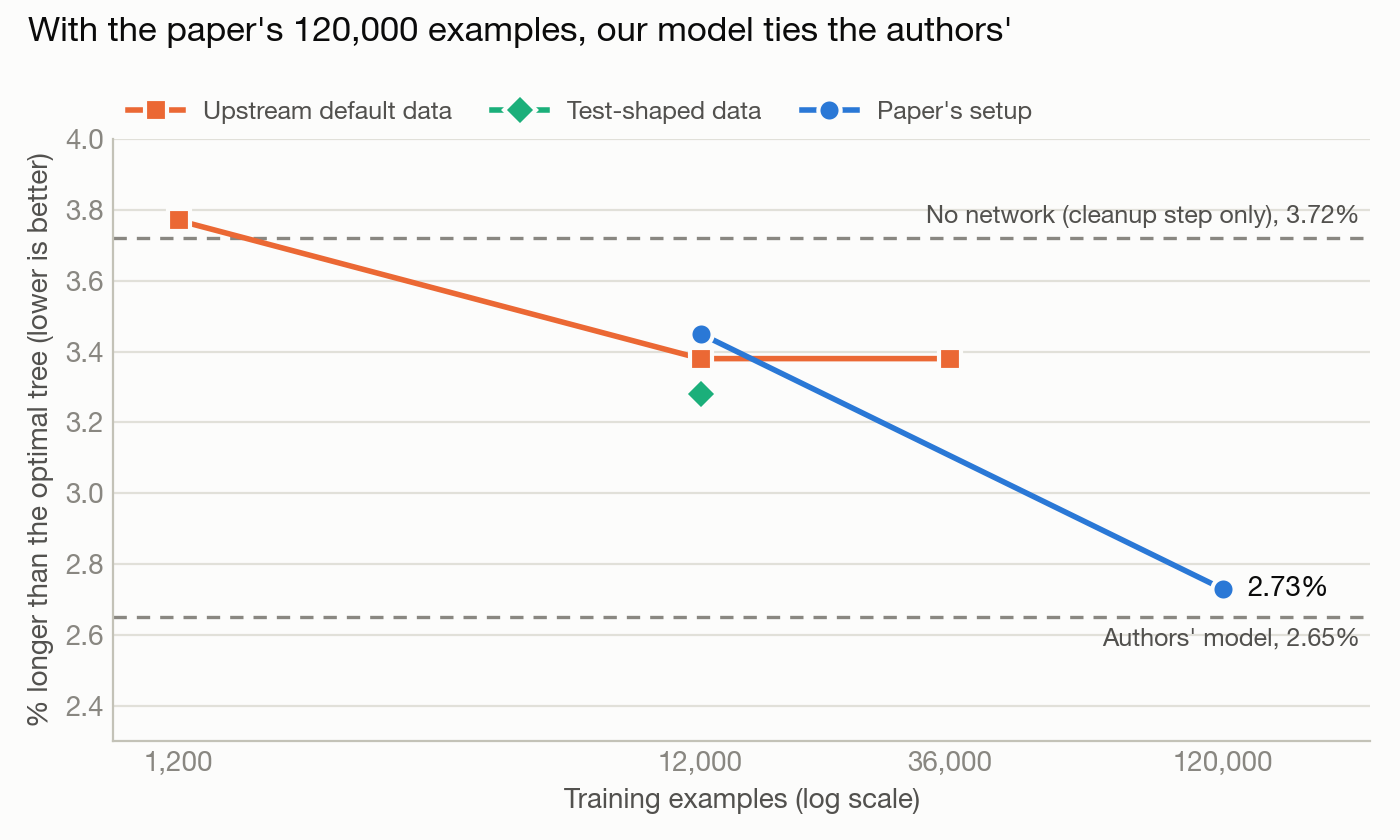
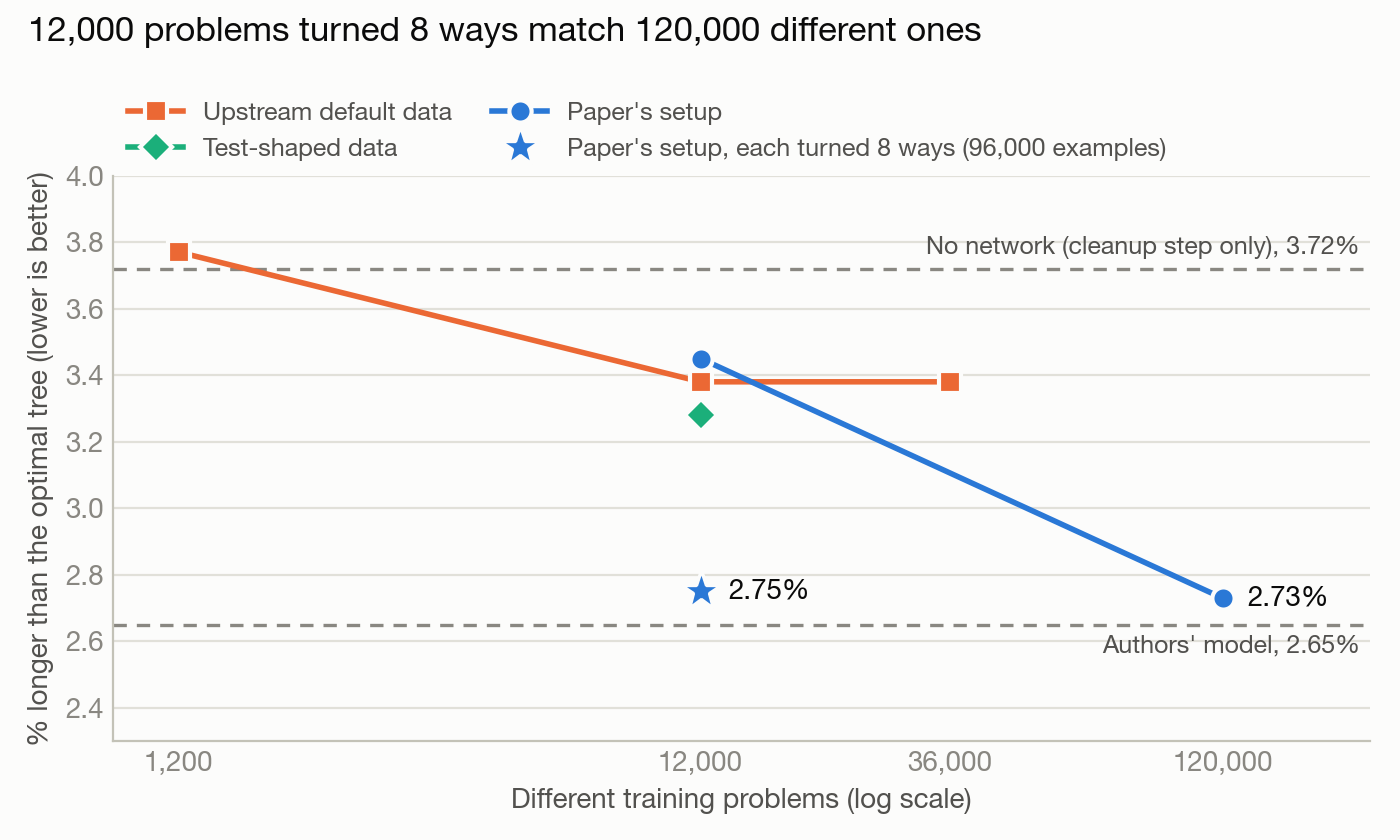
docs: training on turned copies scores 2.75%, a tie with 120k (+0.02 +- 0.10), but the orientation spread barely moves (1.86 vs 1.95)

Changed region(s): [[0.0, 0.1238, 0.9829, 0.8976], [0.0307, 0.0, 0.7371, 0.0619], [0.3686, 0.9286, 0.7064, 0.9905]]

diff --git a/scripts/make_figures.py b/scripts/make_figures.py
@@ -26,6 +26,8 @@ RESULTS = os.path.join(REPO, "results")
 DEFAULT_DATA = [(1_200, 3.77), (12_000, 3.38), (36_000, 3.38)]
 TEST_SHAPED = [(12_000, 3.28)]
 PAPER_SETUP = [(12_000, 3.45), (120_000, 2.73)]
+# The same 12,000 paper-style problems, each in all 8 turns (96,000 examples)
+TURNED = [(12_000, 2.75)]
 AUTHORS = 2.65
 NO_NETWORK = 3.72
 
@@ -69,13 +71,16 @@ def scaling_plot(path: str) -> None:
         xs, ys = zip(*points)
         ax.plot(xs, ys, color=color, lw=2, marker=marker, ms=8, mec=SURFACE, mew=1.5, label=label, zorder=3)
 
+    # Turned copies add no new problems, so the point sits at 12,000 with no line
+    ax.plot(*zip(*TURNED), ls="none", color=BLUE, marker="*", ms=15, mec=SURFACE, mew=1.2, label="Paper's setup, each turned 8 ways (96,000 examples)", zorder=4)
     ax.annotate("2.73%", PAPER_SETUP[-1], xytext=(9, 0), textcoords="offset points", ha="left", va="center", color=INK, fontsize=10)
+    ax.annotate("2.75%", TURNED[-1], xytext=(10, 0), textcoords="offset points", ha="left", va="center", color=INK, fontsize=10)
     ax.set_xscale("log")
     ax.set_xticks([1_200, 12_000, 36_000, 120_000], ["1,200", "12,000", "36,000", "120,000"])
     ax.minorticks_off()
     ax.set_xlim(900, 230_000)
     ax.set_ylim(2.3, 4.0)
-    ax.set_xlabel("Training examples (log scale)")
+    ax.set_xlabel("Different training problems (log scale)")
     ax.set_ylabel("% longer than the optimal tree (lower is better)")
     ax.grid(axis="y", color=GRID, lw=0.8)
     ax.set_axisbelow(True)
@@ -84,8 +89,8 @@ def scaling_plot(path: str) -> None:
         ax.spines[side].set_visible(False)
     ax.tick_params(length=0)
 
-    ax.legend(loc="lower left", bbox_to_anchor=(0, 1.0), ncol=3, frameon=False, fontsize=9, labelcolor=INK_2, handlelength=2.2, columnspacing=1.6, borderaxespad=0.2)
-    fig.suptitle("With the paper's 120,000 examples, our model ties the authors'", x=0.02, ha="left", fontsize=12.5)
+    ax.legend(loc="lower left", bbox_to_anchor=(0, 1.0), ncol=2, frameon=False, fontsize=9, labelcolor=INK_2, handlelength=2.2, columnspacing=1.6, borderaxespad=0.2)
+    fig.suptitle("12,000 problems turned 8 ways match 120,000 different ones", x=0.02, ha="left", fontsize=12.5)
 
     fig.tight_layout()
     fig.savefig(path, dpi=200)

diff --git a/docs/Findings.md b/docs/Findings.md
@@ -9,7 +9,7 @@ The team's running record of the project: where things stand, what each of us ne
 - Background on the paper: [Project_Proposal.md](Project_Proposal.md)
 - Who owns what: [Team_Responsibilities.md](Team_Responsibilities.md)
 
-*Last updated: 2026-11-07*
+*Last updated: 2026-11-08*
 
 ---
 
@@ -34,6 +34,7 @@ The team's running record of the project: where things stand, what each of us ne
 - [How the paper trained its model](#how-the-paper-trained-its-model)
 - [The paper's full 120,000 examples (done)](#the-papers-full-120000-examples-done)
 - [Best of 8 and bigger problems (done)](#best-of-8-and-bigger-problems-done)
+- [Training on turned copies (done)](#training-on-turned-copies-done)
 - [What comes next](#what-comes-next)
 - [Our scripts, and what each one does](#our-scripts-and-what-each-one-does)
 - [How to reproduce our numbers](#how-to-reproduce-our-numbers)
@@ -49,7 +50,7 @@ The team's running record of the project: where things stand, what each of us ne
 |---|---|
 | Can everyone run the authors' code? | **Yes.** It takes one setup command on a Mac or on Colab. Their training needed 2+ NVIDIA GPUs; it now runs on 1 GPU, an Apple GPU, or CPU |
 | Is the authors' trained model as good as the paper says? | **Yes.** On the 100 uniform 100-point test problems it scores **2.648%** longer than optimal, vs their published **2.646%**. Getting there needed a fix (patch 0004) |
-| Can we train a model that good ourselves? | **Yes.** Trained on the paper's full 120,000 paper-style examples (one fixed tree shape, batch 500, 140 epochs), our model scores **2.73%** vs the authors' **2.65%**: +0.08 ± 0.09 points, and ours is shorter on 52 of the 100 problems. That's a tie. Earlier runs: 1,200 examples **3.77%**, 12,000 **3.38%**, 36,000 **3.38%**, 12,000 test-shaped **3.28%**, 12,000 paper-style trained much longer **3.45%** ([details](#the-papers-full-120000-examples-done)) |
+| Can we train a model that good ourselves? | **Yes.** Trained on the paper's full 120,000 paper-style examples (one fixed tree shape, batch 500, 140 epochs), our model scores **2.73%** vs the authors' **2.65%**: +0.08 ± 0.09 points, and ours is shorter on 52 of the 100 problems. That's a tie. Earlier runs: 1,200 examples **3.77%**, 12,000 **3.38%**, 36,000 **3.38%**, 12,000 test-shaped **3.28%**, 12,000 paper-style trained much longer **3.45%** ([details](#the-papers-full-120000-examples-done)). Later: the same 12,000 problems each turned 8 ways, **2.75%** ([details](#training-on-turned-copies-done)) |
 | Is more training data the fix? | **For paper-style data, yes.** 120,000 examples gave 2.73%: 0.55 ± 0.11 points better than our previous best (3.28%), and 0.72 ± 0.09 better than the same setup on 12,000 (3.45%). For corner-shaped data it wasn't: 12,000 → 36,000 changed nothing (each model wins 50 of 100 problems) |
 | Is the portal threshold the problem? | **No, but each model needs its own.** For our corner-shaped model the default 0.95 was already best, on both the 100- and 200-point sets. Models trained differently are sure of themselves in different ways: the test-shaped model's best is 0.8, the 120,000 model's 0.9, both picked on the 200-point set. The sweep also showed **where** the gap was: over a "no network" baseline (threshold 1.0, 3.77%), the corner-shaped network improved the score by only 0.39 points, the authors' by 1.07. The 120,000 model's network adds 0.99 ([details](#the-threshold-experiment-done)) |
 | Does the authors' network guess portals better than ours? | **Depends on the data's shape.** On our corner-shaped validation data, ours wins (F1 0.46 vs 0.29). On validation data shaped like the test problems, theirs wins clearly (0.37 vs 0.25). Our corner-shaped training examples put all points in one corner (quadtrees 9–11 levels deep); the test problems don't (2–4) ([details](#comparing-the-two-networks-directly-done)). Our 120,000 model now beats theirs on test-shaped data (0.42 vs 0.37), though the trees only tie ([details](#the-papers-full-120000-examples-done)) |
@@ -58,7 +59,9 @@ The team's running record of the project: where things stand, what each of us ne
 | Does training much longer help? | **Not on 12,000 examples.** A paper-style run (one tree shape, batch 500, no early stopping) memorized them: by epoch 600 training F1 was 0.98 and validation F1 had fallen from 0.24 to 0.18. Its trees got worse too: **3.45%** at epoch 50 (its best), 3.68% at epoch 600 (+0.22 ± 0.11). Even the best is behind the test-shaped 3.28% ([details](#scoring-the-long-run-longer-training-on-12000-examples-doesnt-help-2026-10-19)). **On 120,000 examples it does:** the network no longer memorizes (training F1 only 0.76 after 140 epochs), and the trees improve from 3.62% at epoch 5 to 2.74% at epoch 40, then hold steady ([details](#the-papers-full-120000-examples-done)) |
 | Does NN-Steiner beat FLUTE on bigger problems? | **Yes, from 500 points on, as the paper says.** At 500 / 800 / 1,000 points, plain FLUTE (the paper's baseline) is 3.86% / 4.64% / 5.02% longer than optimal. One try of our model scores **3.03% / 3.39% / 3.49%** and the authors' 3.15% / 3.47% / 3.51% (their paper: 3.16% at 500, 3.52% at 1,000). FLUTE still wins at 100 and 200 points. Our model is slightly ahead of the authors' from 200 to 800 points and ties at 1,000 ([details](#best-of-8-and-bigger-problems-done)) |
 | Can we get better trees without retraining? | **Yes: solve each problem in its 8 orientations and keep the shortest ("best of 8").** On the 100-point exam, ours goes from 2.73% to **1.76%** and the authors' from 2.65% to **1.87%**. It helps at every size (ours: −0.97 points at 100, −0.38 at 1,000) and costs 8× the solve time. With it, NN-Steiner ties plain FLUTE at 200 points (2.30% vs 2.30%) ([details](#best-of-8-and-bigger-problems-done)) |
-| What's running right now? | Nothing. Best of 8 is finished and scored |
+| Can turned copies of a problem replace new problems? | **Yes, for the score.** Training on 12,000 paper-style problems, each in all 8 turns (96,000 examples, patch 0008), scores **2.75%**: a tie with the 120,000 run (+0.02 ± 0.10), and 0.70 ± 0.10 better than the same 12,000 problems unturned (3.45%). The turned copies stop the memorizing just as new problems do. Averaged over the 8 orientations, the 120,000 model keeps a small edge (3.03% vs 3.11% on the 200-point set, +0.08 ± 0.03) ([details](#training-on-turned-copies-done)) |
+| Does training on turned copies make the network care less about orientation? | **No, not measurably.** The spread across a problem's 8 orientations is 1.86 vs 1.95 for the 120,000 model at 100 points (−0.09 ± 0.07), 1.44 vs 1.52 at 200. No model has a favourite direction; the spread comes from imperfect door guesses, which land differently in each orientation ([details](#training-on-turned-copies-done)) |
+| What's running right now? | Nothing. Training on turned copies is finished and scored |
 | What's next? | Other point patterns and 2,000–5,000 points (against FLUTE, since there's no optimal there), then the report, and `portal_weight` if there's time. Details in [What comes next](#what-comes-next) |
 
 "% longer than optimal" is the real score: how much more wire our tree uses than the perfect tree from GeoSteiner. Lower is better. 3.38% means: where the perfect tree needs 100 m of wire, ours uses 103.38 m.
@@ -121,6 +124,8 @@ The team's running record of the project: where things stand, what each of us ne
 
 **Nov 7: the orientation effect is mostly the network.** `scripts/orientation_check.py` built every turned copy's tree without the network. With perfect doors the spread across orientations is about a quarter of the networks' (0.49 vs 1.95 at 100 points), so training on turned copies (idea 02) targets the right thing. Also: a perfect network would score 0.82%, beating FLUTE even at 100 points.
 
+**Nov 7–8: training on turned copies.** Patch 0008 adds `data_gen.turns`, so `data_gen` saves every training problem in all 8 turns, each labelled by GeoSteiner. Made 96,000 examples from the 12,000 paper-style problems (24 min, 7.7 GB) and checked them with `scripts/check_turned_data.py`. Trained 60 epochs at batch 500 (7 h 24 min). The checkpoint picked on the 200-point set (epoch 60, threshold 0.9) scores **2.75%**, a tie with the 120,000 run's 2.73%. Best of 8 on it: the spread across orientations barely moved (1.86 vs 1.95).
+
 **Nov 3–5: best of 8 and bigger problems.** Wrote `scripts/best_of_8.py`: it solves each test problem in its 8 orientations (4 rotations, each mirrored or not) and keeps the shortest tree. A GeoSteiner check proved the turning is right (all 1,600 turned copies of the 100- and 200-point sets keep exactly their optimal length). Scored both models at 100, 200, 500, 800 and 1,000 points. Best of 8 helps both at every size (ours: 2.73% → 1.76% on the exam), and from 500 points on NN-Steiner beats FLUTE, as the paper says.
 
 **Oct 19–20: the paper's full 120,000 examples.** Made 120,000 paper-style examples (9.6 GB) and trained them for 140 epochs at batch 500. It ran in three parts: I paused it twice (at epochs 42 and 123) and restarted from the last numbered checkpoint with `train.checkpoint`. About 22.5 h in all. Validation F1 rose to 0.43 with no memorizing. Scored 6 checkpoints with `scripts/score_checkpoint.sh`. The one picked on the 200-point set (epoch 140, threshold 0.9) scores **2.73%**, a tie with the authors' 2.65% (+0.08 ± 0.09). The number of examples was the gap.
@@ -144,8 +149,10 @@ All scores are on the same exam: the authors' 100 test problems (100 uniformly r
 | **Test-shaped training** (threshold 0.8, picked on the 200-point set) | 12,000 | – | **3.28%** (3.62% at 0.95) |
 | **Paper-style training, much longer** (one tree shape, batch 500; best checkpoint, epoch 50, threshold 0.8) | 12,000 | – | **3.45%** (3.68% after 600 epochs) |
 | **Paper-style training, the paper's full 120,000 examples** (140 epochs, batch 500; epoch 140 and threshold 0.9, both picked on the 200-point set) | 120,000 | – | **2.73%** (2.74% already at epoch 40) |
+| **Paper-style training on turned copies** (the same 12,000 problems, each in all 8 turns; 60 epochs, batch 500; epoch 60 and threshold 0.9, both picked on the 200-point set) | 96,000 (12,000 × 8) | – | **2.75%** |
 | **Best of 8**, authors' model (threshold 0.95) | 120,000 | – | **1.87%** |
 | **Best of 8**, our 120,000 model (threshold 0.9) | 120,000 | – | **1.76%** |
+| **Best of 8**, our turned-copies model (threshold 0.9) | 96,000 (12,000 × 8) | – | **1.90%** |
 | No network (threshold 1.0), authors' model | – | – | 3.72% |
 | No network (threshold 1.0), our 36,000 model | – | – | 3.77% |
 | No network (threshold 1.0), our test-shaped model | – | – | 3.78% |
@@ -205,10 +212,11 @@ FLUTE beating NN-Steiner here is expected. The paper's claim is that NN-Steiner 
 
 12. **On bigger problems the paper's claim holds, and our model holds up.** The authors' model scored by us matches their paper at 200, 500 and 1,000 points too (3.06 / 3.15 / 3.51% vs 3.06 / 3.16 / 3.52%). From 500 points on, both models beat FLUTE on almost every problem, by more as problems grow (ours, one try, vs plain FLUTE: −0.83 points at 500, −1.53 at 1,000). Our model is slightly ahead of the authors' from 200 to 800 points (averaged over the 8 orientations: −0.09 ± 0.03, −0.14 ± 0.02, −0.08 ± 0.02 points) and ties at 1,000 (−0.03 ± 0.02). At 100 and 200 points FLUTE still wins, though best of 8 ties plain FLUTE at 200.
 
-13. **What these results don't cover yet:**
+13. **Turned copies of a problem work as well as new problems, but don't teach orientation-blindness.** Training on the 12,000 paper-style problems, each in all 8 turns, scores **2.75%**: a tie with 120,000 different problems (2.73%, +0.02 ± 0.10) and 0.70 ± 0.10 better than the 12,000 unturned (3.45%, shorter on 78 of 100). Validation F1 at the same number of steps is close to the 120,000 run's (0.380 vs 0.387), and the network didn't memorize. So the 12,000 run's problem was memorizing, and 8 turns fix that as well as 10× more problems. Averaged over the 8 orientations, though, the 120,000 model is a little ahead (2.68 vs 2.74% at 100 points, 3.03 vs 3.11% at 200, +0.08 ± 0.03), so genuinely new problems still add a bit. The orientation spread didn't measurably shrink (1.86 vs 1.95 at 100 points, −0.09 ± 0.07). Neither model ever had a favourite direction (each turn's average is within 0.22 of the others), so there was no bias to train away: the spread comes from imperfect door guesses, which land differently in each orientation. Only a better network shrinks it ([details](#training-on-turned-copies-done)).
+
+14. **What these results don't cover yet:**
    - 2,000–5,000 points. There's no optimal answer there, so the comparison is against FLUTE directly.
    - Other point patterns (normal, mix-normal, non-isotropic).
-   - Whether training on turned copies makes the network less orientation-sensitive. (The effect is mostly the network's: with perfect doors the orientation spread drops to about a quarter.)
    - Runtime. Ours isn't comparable to the paper's anyway: different hardware, and GeoSteiner without CPLEX.
    - Run-to-run luck. Every result is one training run with one seed (42).
 
@@ -452,7 +460,7 @@ Measured training speed on the Mac: about 49 s per epoch on 1,200 examples, 7.9 
 
 The authors' trainer loads the **entire training set into memory** before training. The 1,200 set is 189 MB, so the paper's 120,000 examples would be about **19 GB**. That fits on a 64 GB Mac but likely not on free Colab (about 12–13 GB of RAM). At the measured speeds, one epoch on 120,000 would take roughly **80 minutes** on my Mac.
 
-**Why it matters:** the full dataset size decides where training can happen. Update (Oct 9): the data-scaling study says 120,000 isn't worth it (36,000 scored no better than 12,000), so this limit no longer blocks us. A 12,000 set is 1.9 GB on disk. Update (Oct 19): paper-style examples are about half that size (12,000 = 984 MB), so 120,000 of them is about 10 GB, and at batch 500 an epoch of 120,000 takes about 8–9 min. That's Experiment 5. Update (Oct 20): it ran on my Mac with no memory problems: 9.6 GB on disk, about 22.5 h for 140 epochs ([details](#the-papers-full-120000-examples-done)).
+**Why it matters:** the full dataset size decides where training can happen. Update (Oct 9): the data-scaling study says 120,000 isn't worth it (36,000 scored no better than 12,000), so this limit no longer blocks us. A 12,000 set is 1.9 GB on disk. Update (Oct 19): paper-style examples are about half that size (12,000 = 984 MB), so 120,000 of them is about 10 GB, and at batch 500 an epoch of 120,000 takes about 8–9 min. That's Experiment 5. Update (Oct 20): it ran on my Mac with no memory problems: 9.6 GB on disk, about 22.5 h for 140 epochs ([details](#the-papers-full-120000-examples-done)). Update (Nov 8): the 96,000 turned copies (7.7 GB) also fit, but 120,000 × 8 turns would be about 77 GB, more than the Mac's 64 GB. Turning more problems needs the trainer to load files as it goes ([details](#training-on-turned-copies-done)).
 
 ---
 
@@ -918,6 +926,80 @@ On test problem 0 its correct-doors tree is exactly the authors' `flow=eval` `pr
 
 ---
 
+## Training on turned copies (done)
+
+### 12,000 problems turned 8 ways: 2.75%, a tie with 120,000 different problems (2026-11-07 to 11-08)
+
+**The question.** On 12,000 paper-style problems the network memorized (3.45%); on 120,000 it kept learning (2.73%). Every problem can be turned 8 ways (the same 8 turns as best of 8), and each copy is a valid problem with the same optimal length. **Do turned copies of the same 12,000 problems work as well as 120,000 new ones?** And does a network trained on all 8 turns care less about which way a problem faces? In ML terms this is data augmentation.
+
+**How.**
+- **Patch 0008** adds `data_gen.turns` (1 = off, the default). With `turns: 8` and `batch: 96000`, file `idx` holds base problem `idx % 12000` in turn `(idx // 12000 + base) % 8` (`sample_turn` in `lib/turns.py`). The authors' trainer never shuffles (it batches files in number order, the same way every epoch), so this order makes every batch of 500 hold 500 different problems with mixed turns, like the 12,000 and 120,000 runs.
+- Each base problem keeps its seed (`seed + base`), so the base problems are exactly the 12,000 paper-style set (seed 100000), and every turn-0 file is byte-identical to that set's file.
+- The turn is applied after the points are fitted to the shared depth-3 tree and before GeoSteiner, so **GeoSteiner labels each turned copy itself**. The shared tree's cell edges are multiples of 1,250 and training points are whole numbers 0–9999, so with `9999 − x` every turned problem fits the same tree exactly.
+- Data: `scripts/arora.sh symmetry 'flow=[data_gen]' data_gen.seed=100000 data_gen.batch=96000` (`configs/symmetry.yaml`): 24 min, 7.7 GB, 163.8 points per example on average (the same as the 12,000 set). No GeoSteiner stalls.
+- Training: the paper-style recipe (batch 500, no early stopping, the same validation and test sets, not turned), 60 epochs = 11,520 steps, checkpoints every 5 epochs. Run folder `2026-11-07/20-03-14`, 7 h 24 min.
+- Scoring: `score_checkpoint.sh` on epochs 20, 40, 55 (best validation F1) and 60; then `best_of_8.py` on the picked one.
+
+**Checks** (`scripts/check_turned_data.py`, on the full set):
+- All 12,000 turn-0 files are byte-identical to the 12,000 paper-style set.
+- For 20 base problems spread over the set, in all 8 turns: the points stored in each file are exactly the turned points, the tree is the shared one, the labels equal GeoSteiner's on the turned points, and GeoSteiner's optimal length is the same in all 8 turns.
+- On 16 of the 20, GeoSteiner's tree uses the same number of doors in every turn; on 4 it differs by 1–2 (an equally short, different tree). So the labels aren't exact mirror images of each other, the way new problems' labels wouldn't be either.
+
+**Learning curve** (validation F1, the same validation set for all three runs; 192 steps per epoch here, 240 for 120,000, 24 for 12,000):
+
+| Run | At 9,600 steps | Best | Training F1 at the end |
+|---|---|---|---|
+| 12,000 paper-style | about 0.2 (memorizing since about 2,900 steps) | 0.2415 | 0.98 (epoch 600) |
+| **12,000 × 8 turns** | **0.380** (epoch 50) | **0.383** (epoch 55) | 0.59 (epoch 60) |
+| 120,000 paper-style | 0.387 (epoch 40) | 0.430 (epoch 135) | 0.76 (epoch 140) |
+
+Validation F1 was still creeping up at epoch 60 (0.370 at 45 → 0.383 at 55, 0.382 at 60).
+
+**Scores, % longer than optimal** (each checkpoint at its own threshold, picked on the 200-point set; all picked 0.9):
+
+| Epoch | 200-point set | 100-point set |
+|---|---|---|
+| 20 | 3.25 | 2.97 |
+| 40 | 3.16 | 2.82 |
+| 55 (best validation F1) | 3.06 | 2.70 |
+| **60 (picked)** | **3.01** | **2.75** |
+
+**Epoch 60 problem by problem** (negative = the turned-copies model shorter; in brackets, on how many of 100 problems it's shorter):
+
+| vs | 100-point set | 200-point set |
+|---|---|---|
+| 120,000 run, epoch 140 (2.73%) | +0.02 ± 0.10 (48) | +0.07 ± 0.08 (48) |
+| 120,000 run, epoch 40 (9,600 steps, about the same) | +0.02 ± 0.10 (46) | −0.04 ± 0.07 (55) |
+| 12,000 paper-style, epoch 50 (3.45%) | **−0.70 ± 0.10 (78)** | **−0.45 ± 0.07 (75)** |
+| Authors' model (2.65%) | +0.11 ± 0.09 (46) | – |
+| Epoch 55 | +0.06 ± 0.07 (50) | −0.05 ± 0.07 (48) |
+
+**Best of 8 and orientation** (`best_of_8.py`, epoch 60, threshold 0.9; spread = a problem's longest minus shortest orientation, % of optimal):
+
+| Points | Model | Average of the 8 orientations | Best of 8 | Spread |
+|---|---|---|---|---|
+| 100 | **Turned copies** | 2.74 | 1.90 | **1.86** |
+| 100 | 120,000 | 2.68 | 1.76 | 1.95 |
+| 100 | Authors' | 2.75 | 1.87 | 1.90 |
+| 200 | **Turned copies** | 3.11 | 2.43 | **1.44** |
+| 200 | 120,000 | 3.03 | 2.30 | 1.52 |
+| 200 | Authors' | 3.12 | 2.41 | 1.47 |
+
+Turned copies vs the 120,000 model, problem by problem: spread −0.09 ± 0.07 (100 points) and −0.08 ± 0.06 (200); average of the 8 orientations +0.06 ± 0.04 and +0.08 ± 0.03; best of 8 +0.13 ± 0.05 and +0.14 ± 0.04. Against the authors' model all three are ties (every difference 0.04 or less, each with ± 0.04–0.08). Each turn's average score is within 0.22 of the others, and each turn gives the shortest tree on 8–18 of the 100 problems at 100 points (12.5 expected by chance).
+
+**What it shows.**
+- **Turned copies replace new problems, for the score.** 12,000 problems × 8 turns tie 120,000 different problems on one try (+0.02 ± 0.10) and beat the same 12,000 unturned by 0.70. They stop the memorizing the same way: training F1 0.59 vs 0.98, and validation F1 kept rising. So the 12,000 run's problem was memorizing, not a lack of variety the turns can't give.
+- **New problems still add a little.** On the steadier average-of-8-orientations score, the 120,000 model is ahead by 0.06–0.08 (about 2.7 standard errors at 200 points), and by 0.13–0.14 with best of 8. So "12,000 × 8 ≈ 120,000" holds to within about 0.1 point, not exactly.
+- **It didn't make the network orientation-blind.** The spread shrank by 0.09 ± 0.07, within noise, and is still about 4× the perfect-doors spread (0.49). The models never had a favourite direction to train away (each turn's average is within 0.22). The spread is what imperfect door guesses look like when every turned copy is effectively a new problem: the mistakes land in different places. Only a better network shrinks it.
+- **The labels cost the same, the problems don't.** Only 12,000 random problems were drawn, but GeoSteiner still solved all 96,000 turned copies (its labels aren't exact mirror images, so they can't be turned instead). Turning the tensors inside the trainer would avoid that, at the price of slightly different labels.
+- **Averaging over the 8 orientations is the fairer way to compare models** (± 0.03–0.04 vs ± 0.10 for one try). On it, our 120,000 model is ahead of the authors' (2.68 vs 2.75%) and the turned-copies model ties them (2.74 vs 2.75%).
+
+**Caveats.** One run, one seed. Epoch 60 was the last checkpoint and the best on the 200-point set, so more epochs might gain a little (the 120,000 run's 200-point score also crept down from epoch 40 to 140). A bigger turned set (120,000 × 8) doesn't fit my Mac: the trainer loads the whole training set into memory (about 77 GB for 960,000 examples, on a 64 GB machine).
+
+![Score vs number of different training problems](../results/scaling.png)
+
+---
+
 ## What comes next
 
 **Now that Experiments 1–5 are done** (data scaling, threshold, data shape, long training, and the paper's full 120,000 examples), in this order:
@@ -930,6 +1012,7 @@ On test problem 0 its correct-doors tree is exactly the authors' `flow=eval` `pr
 - `m` (portals per cell side): 3, 7 or 15. Needs new data.
 - Train on uniform points, test on other point patterns. Overlaps with the evaluation baselines.
 - 120,000 test-shaped examples: does the tree shape still matter once there's enough data?
+- More problems on top of turning: 30,000 × 8 turns (240,000 examples, about 19 GB in memory, about 13 h) would show whether turning adds to new problems. 120,000 × 8 needs the trainer to load data as it goes instead of all at once.
 
 **Report:** I lead Methodology & model, and help with Dataset and Experimental setup.
 
@@ -948,6 +1031,7 @@ On test problem 0 its correct-doors tree is exactly the authors' `flow=eval` `pr
 | Grade models' portal guesses (F1, precision, recall) without solving | `python scripts/val_f1.py <model.pt> [more models...]` |
 | Score a trained model on the 100 test problems, threshold picked on the 200-point set | `scripts/score_checkpoint.sh <model.pt> <name> [thresholds...]` |
 | Solve each test problem in its 8 orientations and keep the shortest (best of 8) | `python scripts/best_of_8.py solve <model.pt> <name> <threshold> --sizes 100 200` |
+| Check a training set made with `data_gen.turns` | `python scripts/check_turned_data.py` |
 | Run the unit tests | `python -m unittest discover -s tests` |
 | Do all of this on Colab | `notebooks/colab.ipynb` |
 
@@ -959,7 +1043,7 @@ Run it once per machine (on Colab, once per session, since Colab wipes everythin
 
 1. **Checks the Python version.** It must be 3.10–3.13, because Hydra breaks on 3.14. Otherwise it stops and tells you how to make a venv.
 2. **Downloads the authors' code** into `third_party/NN-Steiner/`, at a fixed commit so we all run the same version. It skips the 770 MB model (`get_pretrained.sh` fetches that). Skipped if the code is already there.
-3. **Applies our patches** from `third_party/patches/` in number order, printing `applied` or `already applied` for each. This is why re-running it after a pull picks up new patches.
+3. **Applies our patches** from `third_party/patches/` in number order, printing `applied` or `already applied` for each. This is why re-running it after a pull picks up new patches. Patch 0008 edits lines 0005 added, so it checks them as a stack: it applies the patches one by one to a clean copy of the authors' files and finds the step that matches what's on disk. If none matches (someone edited `third_party/NN-Steiner/` by hand), it stops with a message.
 4. **Installs dependencies:**
    - Colab (Linux): build tools, GMP and friends via `apt`.
    - Mac: `gmp`, `cmake` and `libtool` via Homebrew. Homebrew's `libtool` provides `glibtool`, which GeoSteiner needs; Apple's own `libtool` can't build it.
@@ -983,7 +1067,7 @@ What it does:
 2. Makes sure the `work/` folders exist. The authors' data generator crashes if they don't.
 3. **Picks the device for solving:** NVIDIA GPU (`cuda:0`), then Apple GPU (`mps`), then CPU, unless you pass `model.device=...` yourself. Training picks its own device the same way (patch 0002).
 4. Lets PyTorch fall back to the CPU for any operation Apple's GPU doesn't support, instead of crashing.
-5. Moves into `work/` and runs the authors' program (`python -m arora`). The final settings are stacked like this (later wins):
+5. Moves into `work/` and runs the authors' program (`python -m arora`), with our `lib/` on the Python path after the authors' code (patch 0008 imports `lib/turns.py` from there). The final settings are stacked like this (later wins):
 
 ```
 authors' conf/config.yaml  +  configs/<config>.yaml  +  your command-line settings
@@ -1088,7 +1172,18 @@ python scripts/best_of_8.py solve models/m15_kb4_n120000.pt p120k 0.9 --sizes 10
 - Results go to `work/exp_out/best8-<name>-thr<threshold>-<n>pt-*`: one solved file and log per orientation, the combined `-best2/4/8-solved.txt` (gradable with `evaluateRatio.py`) and a per-problem `.csv`.
 - Finished solves are reused, so a stopped run (Ctrl-C) can just be started again. Use a new `<name>` per model. `--jobs 4` solves 4 copies at once; the solve times are then not comparable.
 - `check` solves every turned copy exactly with GeoSteiner and compares with the optimal file. It should end with `check passed`.
-- The 8 turns live in `lib/turns.py`; unit tests in `tests/` (`python -m unittest discover -s tests`, 20 tests, about 1 s).
+- The 8 turns live in `lib/turns.py`; unit tests in `tests/` (`python -m unittest discover -s tests`, 29 tests, about 1 s).
+
+### `scripts/check_turned_data.py`: check a turned training set (about 1 min)
+
+```bash
+python scripts/check_turned_data.py      # defaults: the 96,000 set vs the 12,000 set, seed 100000
+```
+
+- Reads the batch size and number of turns from the folder name (`...-96000-turns8-tensor`).
+- Checks that every turn-0 file is byte-identical to the plain set's file for the same base problem (`--plain`).
+- For `--bases` base problems (default 20) it rebuilds each problem, then for every turn checks the stored points, the shared tree, the labels (rebuilt with GeoSteiner) and that the optimal length is the same in all 8 turns. It prints the doors used per turn and ends with `ALL CHECKS PASSED`.
+- `--seed` must be the `data_gen.seed` the set was made with (100000 for ours).
 
 ### `notebooks/colab.ipynb`: the same, on Colab
 
@@ -1318,6 +1413,16 @@ PY
 ```
 Plain FLUTE (the paper's baseline) is `third_party/NN-Steiner/flute_out/flute<n>_10000x10000-uniform.txt`.
 
+**Training on turned copies** (`configs/symmetry.yaml`; about 25 min for the data, 7.5 h to train, 1 h 20 min to score 4 checkpoints, 40 min for best of 8). Data generation ends with `points summary: mean: 163.81...`, the check with `ALL CHECKS PASSED`, and epoch 60 prints `100-point set at 0.9: 2.754%` and `best of 8: 1.90%` at 100 points:
+```bash
+scripts/arora.sh symmetry 'flow=[data_gen]' data_gen.seed=100000 data_gen.batch=96000
+python scripts/check_turned_data.py
+PYTHONUNBUFFERED=1 caffeinate -i scripts/arora.sh symmetry train.epochs=60 train.keep_every=5 2>&1 | tee work/symmetry-96000.log
+R=outputs/2026-11-07/20-03-14/train/model     # your run folder
+for e in 20 40 55 60; do scripts/score_checkpoint.sh $R/nnArora_ep$e.pt sym-ep$e 2>&1 | tee -a work/sym-scores.log; done
+python scripts/best_of_8.py solve $R/nnArora_ep60.pt sym-ep60 0.9 --sizes 100 200 2>&1 | tee work/best8-sym.log
+```
+
 ---
 
 ## Where everything is
@@ -1339,6 +1444,7 @@ Everything under `work/` is on my Mac only (it isn't in git or on Drive). Tell m
 | `2026-10-19/15-15-43` | **120,000 paper-style examples, part 1:** epochs 0–40 (paused at 42) |
 | `2026-10-20/00-11-40` | **Part 2:** from part 1's `nnArora_ep40.pt`; overall epochs 40–120 (its `ep<N>` is epoch N + 40; paused at 123) |
 | `2026-10-20/15-31-53` | **Part 3:** from part 2's `nnArora_ep80.pt`; overall epochs 120–140 (its `ep<N>` is epoch N + 120). Its `nnArora_ep20.pt` (epoch 140) is our best model: **2.73%** at threshold 0.9 |
+| `2026-11-07/20-03-14` | **Turned copies: the 12,000 paper-style problems × 8 turns** (96,000 examples), 60 epochs, checkpoints every 5. Its `nnArora_ep60.pt`: **2.75%** at threshold 0.9 |
 
 Inside a training run: `train/` holds the TensorBoard curves, and `train/model/nnArora.pt` is the best model by validation F1. For runs with numbered checkpoints (`nnArora_ep<N>.pt`) I pick by scoring instead (`score_checkpoint.sh`).
 
@@ -1354,6 +1460,8 @@ Inside a training run: `train/` holds the TensorBoard curves, and `train/model/n
 | `thr-shape12000-t<threshold>-`, `thr200-shape12000-t<threshold>-solved.txt` | Threshold sweep of the test-shaped model on the 100- and 200-point sets (best: 0.8, 3.28% on both) |
 | `thr-paper-ep<N>-t<threshold>-`, `thr200-paper-ep<N>-t<threshold>-solved.txt` | The long paper-style run's checkpoints (epochs 50, 120, 200, 400, 600), from `score_checkpoint.sh` (best: epoch 50 at 0.8, 3.45%) |
 | `thr-p120k-ep<N>-t<threshold>-`, `thr200-p120k-ep<N>-t<threshold>-solved.txt` | The 120,000 run's checkpoints (overall epochs 5, 40, 80, 110, 135, 140), from `score_checkpoint.sh` (picked: epoch 140 at 0.9, 2.73%) |
+| `thr-sym-ep<N>-t<threshold>-`, `thr200-sym-ep<N>-t<threshold>-solved.txt` | The turned-copies run's checkpoints (epochs 20, 40, 55, 60), from `score_checkpoint.sh` (picked: epoch 60 at 0.9, 2.75%) |
+| `best8-<name>-thr<threshold>-<n>pt-*` | Best of 8: one solved file per orientation, the combined best-of-2/4/8 files and a per-problem `.csv`. Names: `p120k`, `pretrained`, `sym-ep60` |
 | `scale-1200-last-`, `scale-12000-last-`, `scale-36000-ep60-solved.txt` | Each run's **last** checkpoint (4.00%, 3.53%, 3.70%) |
 | `check-refine-on/off-100-uniform-solved.txt` | Authors' model with cleanup on / off |
 | `check-medium30-refine-on/off-100-uniform-solved.txt` | My 30-epoch model with cleanup on / off |
@@ -1375,13 +1483,15 @@ Inside a training run: `train/` holds the TensorBoard curves, and `train/model/n
 | `batch240_10000x10000-uniform-12000-tensor` | Test-shaped training, 12,000, seed 100000, 180 points | – |
 | `level3_10000x10000-uniform-12000-tensor` | Paper-style training, 12,000, seed 100000: one full depth-3 tree for every example, about 164 points | 984 MB |
 | `level3_10000x10000-uniform-120000-tensor` | Paper-style training, 120,000, same settings and seed | 9.6 GB |
+| `level3_10000x10000-uniform-96000-turns8-tensor` | Turned copies: the 12,000 paper-style problems (seed 100000) in all 8 turns, 96,000 files; turn-0 files identical to the 12,000 set's | 7.7 GB |
 
 **Files in the repo:**
 
 | File | What it is |
 |---|---|
-| `scripts/setup.sh`, `common.sh`, `arora.sh`, `smoke_test.sh`, `get_pretrained.sh`, `val_f1.py`, `score_checkpoint.sh` | Setup, the run launcher, and helpers. Details in [Our scripts](#our-scripts-and-what-each-one-does) |
-| `configs/smoke.yaml`, `medium.yaml`, `pretrained_solve.yaml`, `scale.yaml`, `shape.yaml`, `paper.yaml` | Settings for each kind of run (table in [Our scripts](#our-scripts-and-what-each-one-does)) |
+| `scripts/setup.sh`, `common.sh`, `arora.sh`, `smoke_test.sh`, `get_pretrained.sh`, `val_f1.py`, `score_checkpoint.sh`, `best_of_8.py`, `orientation_check.py`, `check_turned_data.py`, `make_figures.py` | Setup, the run launcher, and helpers. Details in [Our scripts](#our-scripts-and-what-each-one-does) |
+| `lib/turns.py`, `tests/` | The 8 turns (shared by best of 8 and patch 0008) and their unit tests |
+| `configs/smoke.yaml`, `medium.yaml`, `pretrained_solve.yaml`, `scale.yaml`, `shape.yaml`, `paper.yaml`, `symmetry.yaml` | Settings for each kind of run (table in [Our scripts](#our-scripts-and-what-each-one-does)) |
 | `notebooks/colab.ipynb` | The Colab entry point |
 | `third_party/patches/0001–0008` | Our fixes to the authors' code |
 | `docs/Project_Proposal.md`, `Team_Responsibilities.md`, this file | The proposal, the plan, and this record |
@@ -1391,12 +1501,12 @@ Inside a training run: `train/` holds the TensorBoard curves, and `train/model/n
 ## Open questions
 
 - **Does our 120,000 model hold up on other point patterns and at 2,000–5,000 points?** (evaluation, with the 120,000 model)
-- **Does training on turned copies make the network care less about orientation,** and does it replace new examples? (symmetry augmentation, 1–2 overnight runs)
 - **Is our 2.73% repeatable?** It's one training run with one seed. A second seed would show how much run-to-run luck there is (about 20 h). (if there's time)
 - **Which more experiment do we commit to?** Five are done (data scaling, threshold, data shape, long training, the paper's full 120,000 examples). I propose `portal_weight` if there's time; see [What comes next](#what-comes-next). (the team decides)
 - **Does loading the latest checkpoint instead of the best one** change the authors' reported test numbers?
 
 **Answered:**
+- *Do turned copies replace new examples, and make the network care less about orientation?* They replace new examples for the score (12,000 × 8 turns: 2.75%, a tie with 120,000's 2.73%), but the orientation spread barely moved (1.86 vs 1.95) ([details](#training-on-turned-copies-done)).
 - *How much of the orientation effect comes from the network?* Most of it: with perfect doors the spread across orientations drops from 1.95 to 0.49 (100 points) and from 1.52 to 0.44 (200 points) ([details](#most-of-the-orientation-effect-is-the-network-not-the-cleanup-steps-2026-11-07)).
 - *Does NN-Steiner beat FLUTE on bigger problems in our setup?* Yes, from 500 points on, for both models, and our 120,000 model holds up there (slightly ahead of the authors' from 200 to 800 points, a tie at 1,000) ([details](#best-of-8-and-bigger-problems-done)).
 - *Do 10× more examples close the gap?* Yes, for paper-style data: 120,000 examples score 2.73%, a tie with the authors' 2.65% (+0.08 ± 0.09) ([details](#the-papers-full-120000-examples-done)).
@@ -1441,4 +1551,8 @@ Inside a training run: `train/` holds the TensorBoard curves, and `train/model/n
 | Numbered checkpoint | `train/model/nnArora_ep<N>.pt`, saved every `train.keep_every` epochs (patch 0006), so a run's history survives |
 | Restarting from a checkpoint | `train.checkpoint=<file>` starts a new run from saved weights. It isn't an exact resume: epochs, best-F1 tracking and Adam's momentum start over |
 | 200-point set / 100-point set | The authors' two uniform test sets, 100 problems each. The 200-point set picks each model's threshold and checkpoint; the 100-point set is the exam we report, touched once |
+| Turn / orientation | One of the 8 ways to turn a problem: 0°, 90°, 180° or 270°, each mirrored or not. The optimal length stays the same |
+| Turned copy / base problem | A training problem saved in another turn (patch 0008, `data_gen.turns`) / the original problem it came from |
+| Data augmentation | Making extra training examples by changing existing ones in ways that keep the answer valid, here by turning them |
+| Spread (orientation spread) | A problem's longest minus shortest tree over its 8 orientations, as % of optimal, averaged over problems. 0 would mean the model doesn't care which way a problem faces |
 | Distribution shift | When training examples look different from the problems a model is tested on. Models usually do worse on the unfamiliar kind |

diff --git a/README.md b/README.md
@@ -10,7 +10,7 @@ The model code is the authors' ([ABKGroup/NN-Steiner](https://github.com/ABKGrou
 
 The score is how much longer a tree is than the optimal one from GeoSteiner (an exact solver), averaged over the authors' 100 test problems of 100 random points each. Lower is better.
 
-![Score vs number of training examples](results/scaling.png)
+![Score vs number of different training problems](results/scaling.png)
 
 | Model | Training examples | % longer than optimal |
 |---|---|---|
@@ -22,12 +22,14 @@ The score is how much longer a tree is than the optimal one from GeoSteiner (an 
 | Ours, test-shaped data | 12,000 | 3.28 |
 | Ours, paper's setup | 12,000 | 3.45 |
 | **Ours, paper's setup** | **120,000** | **2.73** |
+| **Ours, paper's setup, 12,000 problems each turned 8 ways** | **96,000** | **2.75** |
 | No network (cleanup step only) | | 3.72 |
 | FLUTE (standard heuristic) | | 1.25 |
 
 - **Upstream default data:** the settings from the authors' example. All points land in one corner of the quadtree's box, so the trees are much deeper than in the test problems.
 - **Test-shaped data:** points spread over the whole box, like the test problems.
 - **Paper's setup:** how the paper says it trained: one shared quadtree shape, batches of 500, no early stopping.
+- **Turned 8 ways:** each of the 12,000 problems saved in all 8 orientations (4 rotations, each mirrored or not), each labeled by GeoSteiner (patch 0008).
 
 FLUTE is still better at 100 points. The paper's claim is that NN-Steiner wins on bigger problems (500+ points), and in our runs it does.
 
@@ -52,6 +54,7 @@ Turning or mirroring a problem doesn't change its optimal tree, but it does chan
 - The number of training examples was the gap. On the default data, going from 12,000 to 36,000 examples changed nothing. Changing the data's shape or the portal threshold only helped a little. With the paper's setup and its full 120,000 examples, our model ties the authors': +0.08 ± 0.09 points, and ours is shorter on 52 of the 100 problems. That took about 22 hours on a Mac, roughly 1/36 of the paper's training.
 - NN-Steiner beats FLUTE from 500 points on, as the paper says, and our model holds up there: slightly ahead of the authors' from 200 to 800 points, a tie at 1,000.
 - NN-Steiner cares a lot about which way a problem faces, though it shouldn't: the 8 orientations of a problem never all give the same length. Keeping the shortest of the 8 takes our model from 2.73% to 1.76% on the 100-point test, and helps at every size.
+- Turned copies of a problem work almost as well as new problems. Training on the 12,000 problems each turned 8 ways scores 2.75%, a tie with 120,000 different problems (+0.02 ± 0.10) and 0.70 better than the 12,000 unturned. It doesn't make the network care less about orientation, though: the spread across a problem's 8 orientations barely moved (1.86 vs 1.95 points).
 - With too few examples, long training just memorizes. On 12,000 examples the paper's setup reached training F1 0.98 while validation F1 fell, and the trees got worse. With 120,000, training F1 only reached 0.76, and the trees improved until about epoch 40 and then held steady.
 
 Every experiment, with run folders and error bars, is in [docs/Findings.md](docs/Findings.md).
